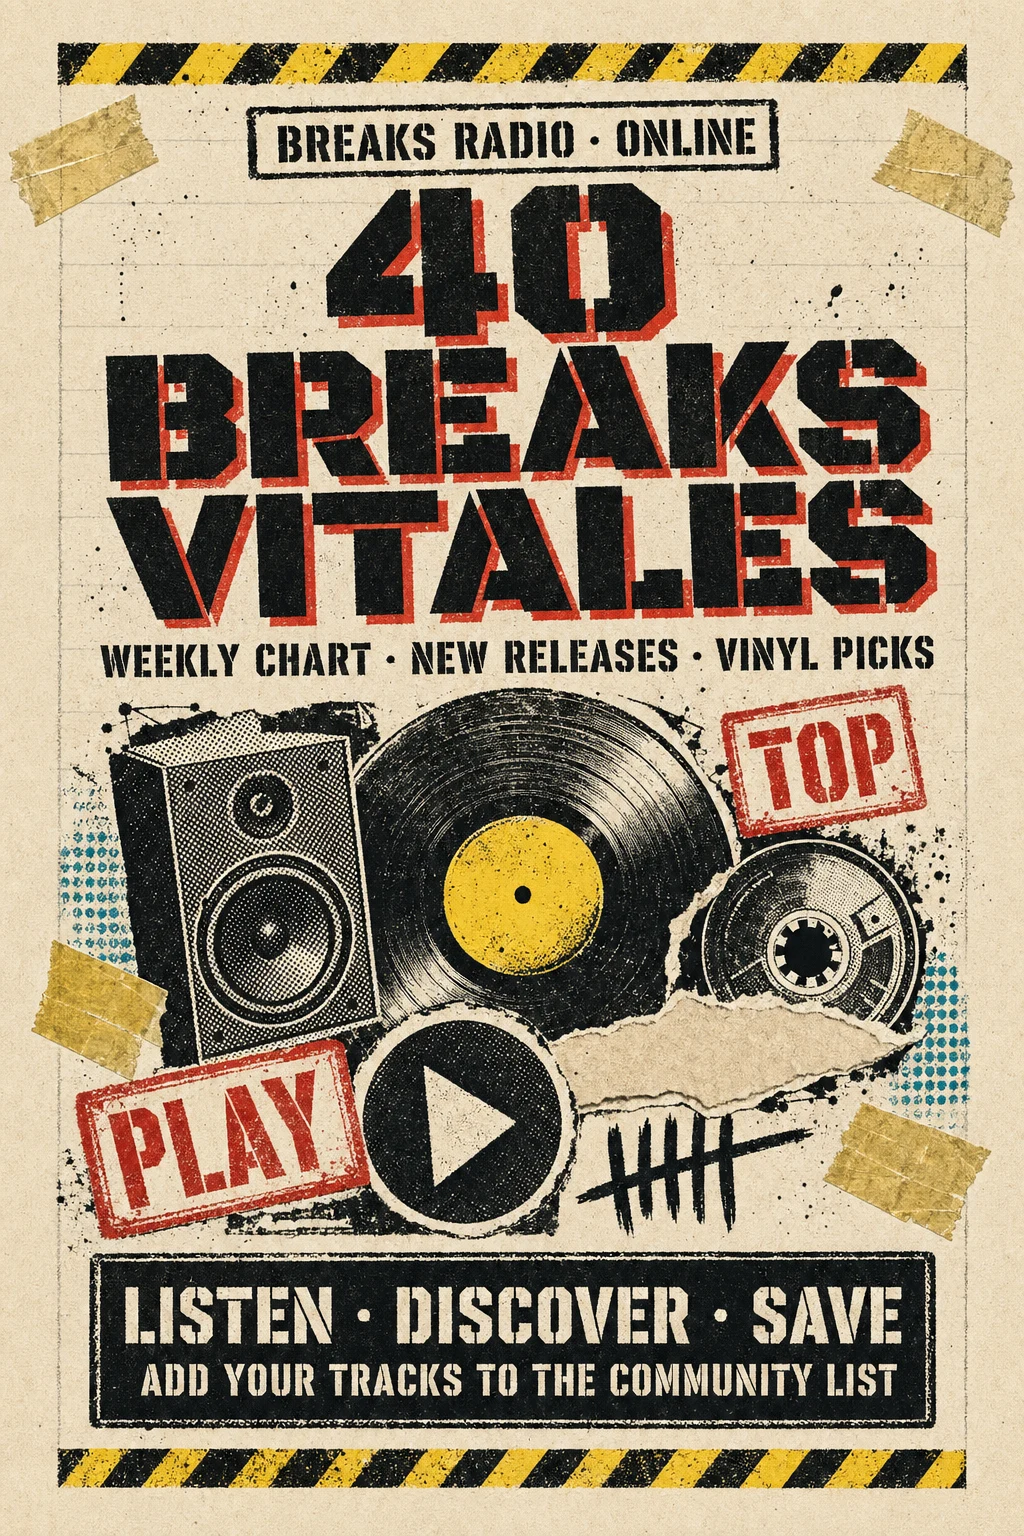
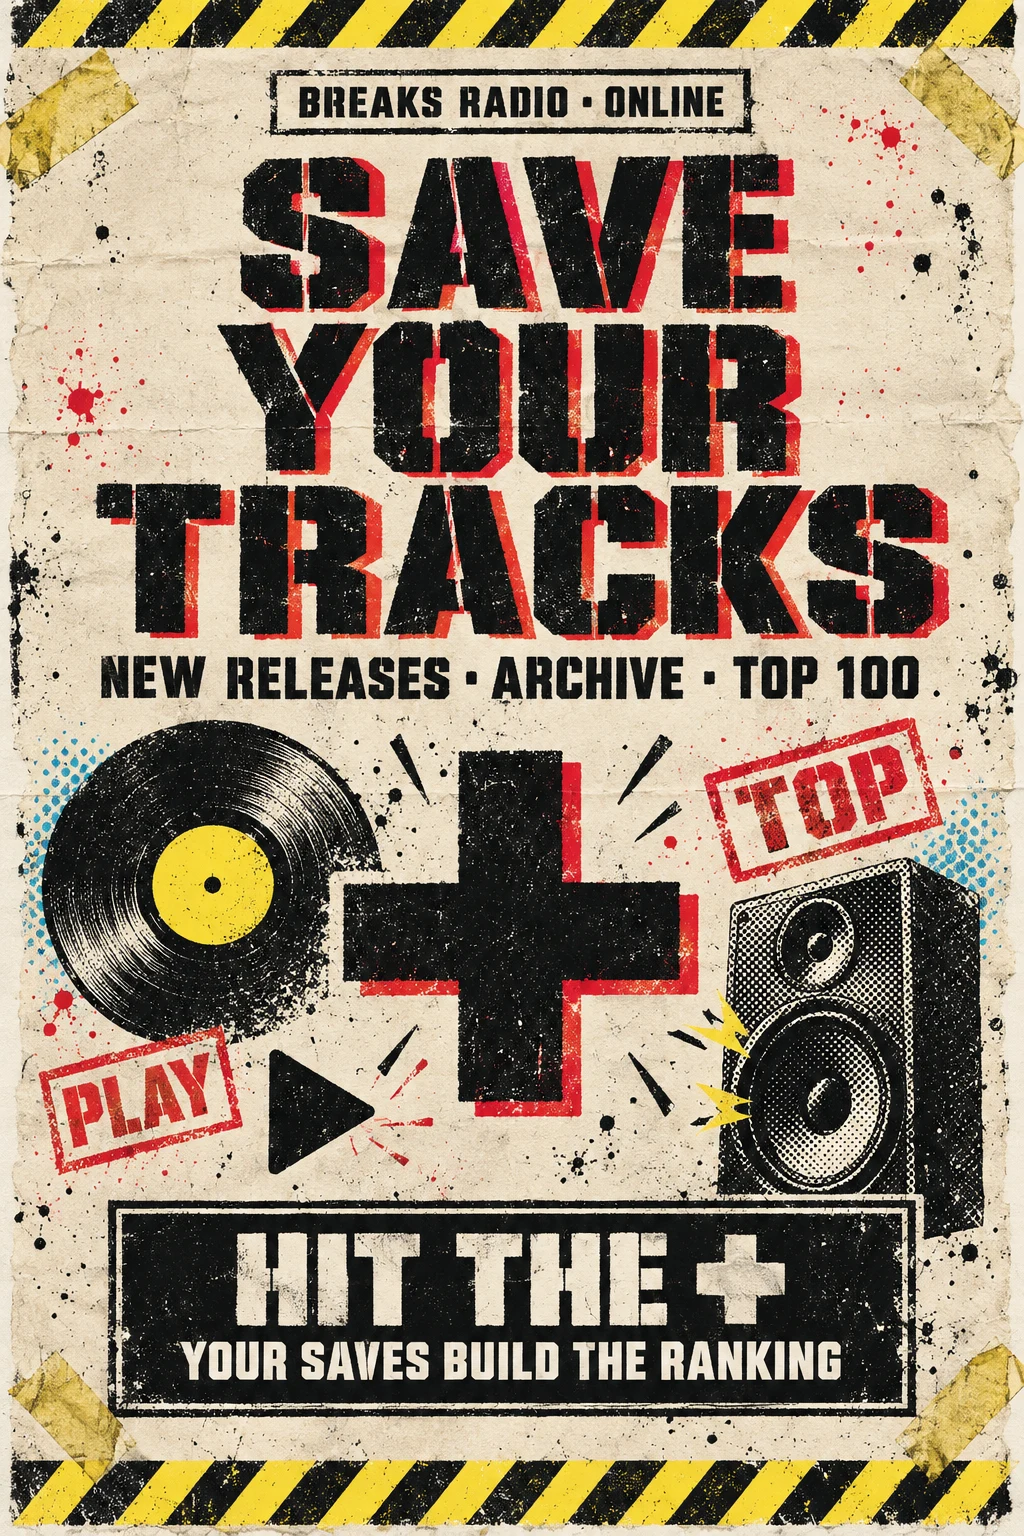
El emergente deja los 40 Breaks y pide el + de guardar temas.
Quien tiene sesión lo vuelve a ver cada 3,5 días.

diff --git a/src/components/ChartsPromoModal.tsx b/src/components/ChartsPromoModal.tsx
@@ -4,7 +4,7 @@
 // no en la primera pantalla — evita LCP/CLS en PageSpeed y no
 // interrumpe la home.
 // - No logueados: reapertura como mucho cada 24 h.
-// - Logueados: una sola vez (localStorage) y no se vuelve a mostrar.
+// - Logueados: reapertura cada 3,5 días (ventana 3–4).
 // Nunca en /[lang]/charts.
 // ============================================
 
@@ -18,6 +18,8 @@ import { useAuth } from '@/components/AuthProvider'
 
 /** Invitados: ms desde la última vez hasta volver a mostrar. */
 const PROMO_REOPEN_GUEST_MS = 24 * 60 * 60 * 1000
+/** Logueados: cada 3,5 días (punto medio de la ventana 3–4). */
+const PROMO_REOPEN_LOGGED_MS = 3.5 * 24 * 60 * 60 * 1000
 /** Pequeño respiro tras cumplir engagement antes de abrir. */
 const SHOW_DELAY_MS = 800
 /** Segundos acumulados en el sitio antes de poder mostrar (1ª visita). */
@@ -25,9 +27,8 @@ const MIN_SESSION_MS = 40 * 1000
 /** Cada cuánto comprobamos si ya toca abrir. */
 const POLL_INTERVAL_MS = 5 * 1000
 
-const LS_LAST_SHOWN = 'ob_charts_promo_last_shown_at'
-/** Logueados: si existe, el promo ya se mostró alguna vez y no se repite. */
-const LS_SEEN_LOGGED = 'ob_charts_promo_seen_logged'
+/** Clave nueva (oct 2026): el cartel ya no es «40 Breaks». Quien cerró el anterior lo vuelve a ver. */
+const LS_LAST_SHOWN = 'ob_charts_promo_saves_at'
 const SS_SESSION_START = 'ob_charts_promo_session_start'
 const SS_PAGE_VIEWS = 'ob_charts_promo_page_views'
 
@@ -63,24 +64,6 @@ function writeLastShown(ts: number) {
   if (typeof window === 'undefined') return
   try {
     window.localStorage.setItem(LS_LAST_SHOWN, String(ts))
-  } catch {
-    /* localStorage puede estar bloqueado */
-  }
-}
-
-function hasSeenLoggedIn(): boolean {
-  if (typeof window === 'undefined') return false
-  try {
-    return window.localStorage.getItem(LS_SEEN_LOGGED) === '1'
-  } catch {
-    return false
-  }
-}
-
-function markSeenLoggedIn() {
-  if (typeof window === 'undefined') return
-  try {
-    window.localStorage.setItem(LS_SEEN_LOGGED, '1')
   } catch {
     /* localStorage puede estar bloqueado */
   }
@@ -131,10 +114,11 @@ function hasEngaged(): boolean {
   return views >= 2 || elapsed >= MIN_SESSION_MS
 }
 
-function guestCooldownElapsed(): boolean {
+function cooldownElapsed(isLoggedIn: boolean): boolean {
   const last = readLastShown()
   if (last == null) return true
-  return Date.now() - last >= PROMO_REOPEN_GUEST_MS
+  const wait = isLoggedIn ? PROMO_REOPEN_LOGGED_MS : PROMO_REOPEN_GUEST_MS
+  return Date.now() - last >= wait
 }
 
 /**
@@ -152,8 +136,7 @@ function otherModalOpen(): boolean {
 function canShowNow(isLoggedIn: boolean): boolean {
   if (otherModalOpen()) return false
   if (!hasEngaged()) return false
-  if (isLoggedIn) return !hasSeenLoggedIn()
-  return guestCooldownElapsed()
+  return cooldownElapsed(isLoggedIn)
 }
 
 export default function ChartsPromoModal({ lang, dict }: Props) {
@@ -166,22 +149,20 @@ export default function ChartsPromoModal({ lang, dict }: Props) {
   const closeBtnRef = useRef<HTMLButtonElement | null>(null)
   const showTimerRef = useRef<ReturnType<typeof setTimeout> | null>(null)
 
-  const markShown = useCallback((loggedIn: boolean) => {
-    const now = Date.now()
-    writeLastShown(now)
-    if (loggedIn) markSeenLoggedIn()
+  const markShown = useCallback(() => {
+    writeLastShown(Date.now())
   }, [])
 
   const showNow = useCallback(() => {
     if (authLoading || !canShowNow(isLoggedIn)) return
     setOpen(true)
-    markShown(isLoggedIn)
+    markShown()
   }, [authLoading, isLoggedIn, markShown])
 
   const close = useCallback(() => {
     setOpen(false)
-    markShown(isLoggedIn)
-  }, [isLoggedIn, markShown])
+    markShown()
+  }, [markShown])
 
   const scheduleShowIfReady = useCallback(() => {
     if (authLoading || onChartsPage || open) return

diff --git a/README.es.md b/README.es.md
@@ -70,7 +70,7 @@ No volver a `<img>` en `CardThumbnail` ni poner `unoptimized` global.
 
 - **Audio global diferido:** **`LazyDeckAudioProvider`** en el layout; **`DeckAudioProvider`** solo se importa al **primer Play** (deck, mix, preview) o si **`sessionStorage`** (`ob_audio_active`) indica sesión activa. Hooks **`usePreviewAudioGated`** / **`useMixAudioGated`** en charts, Top 10, mixes y Mis Tracks; cabina home con controles offline hasta el primer gesto. El provider mantiene un **shell estable** alrededor de `{children}` (no remonta el árbol de la página al cargar el motor — el acordeón de `/charts` no se colapsa al primer play) y **portala** el reproductor a `<div id="ob-audio-overlays">` bajo `document.body` para que `position: fixed` siempre ancle al viewport real. Tanto **`MiniPlayerShell`** como **`BackToTop`** compensan el **`visualViewport`** en **PWA iOS** (`resize` / `scroll` / `pageshow`) para que tras bloquear/desbloquear el móvil sigan pegados al borde inferior visible.
 - **Fuentes:** subsets **latin** de Unbounded en layout + **preload** del woff2 del 900; Special Elite fuera del CSS bloqueante (`DeferredFonts`).
-- **Otros:** `DjDeck` con `dynamic()`; modal de charts solo tras engagement (2ª página o 40 s); GA/SW/BackToTop dinámicos; **`/history`** con revalidate 300; quitado `force-dynamic` del layout global.
+- **Otros:** `DjDeck` con `dynamic()`; modal de charts solo tras engagement (2ª página o 40 s). Invitados: como mucho cada 24 h. Logueados: cada 3,5 días. Nunca en `/charts`. El cartel pide el **+** (esos saves arman el Top de temas y el de artistas). GA/SW/BackToTop dinámicos; **`/history`** con revalidate 300; quitado `force-dynamic` del layout global.
 - **Caché de lecturas públicas de Supabase (Disk IO, agosto 2026):** la instancia agotó su **Disk IO Budget** (cada visita, bots incluidos, lanzaba todas las consultas del catálogo sin caché y el middleware llamaba a Auth sin timeout) y el sitio entero cayó con **504 `MIDDLEWARE_INVOCATION_TIMEOUT`**. Solución: compute **Nano → Micro** y, en la app, **`createCachedSupabase()`** (`src/lib/supabase-server.ts`) — cliente sin cookies cuyas lecturas van a la **Data Cache** de Next/Vercel con `revalidate` **300 s** — en todo el catálogo público (home, charts, artists, labels, events, mixes, scenes, blog, history, organizations, sitemap, buscador y OG de Stories). El **middleware** solo llama a Auth si hay cookies de sesión y aborta a los **2,5 s**. Los cambios en BD tardan **≤ ~5 min** en verse en la web pública (el admin ve datos vivos). **No** volver a `createServerSupabase()` en páginas públicas ni usar el cliente cacheado para datos por-usuario o escrituras. Regla: `.cursor/rules/supabase-cache-lecturas-publicas.mdc`.
 - **Lecturas paginadas (`src/lib/supabase-paginate.ts`, 28 sep 2026).** PostgREST corta en silencio a **1.000 filas** y la Data Cache **tira las entradas de más de 2 MB**. `fetchAllPages` (artistas, eventos, mixes, mapas de slugs de `/charts`) y `fetchAllPagesParallel` (el esquema de `/charts`) leen **páginas de 500** con un `ORDER BY` estable: no se pierde nada y cada página cabe en la caché. No sustituirlos por un `select` sin tope.
 - **Índices de crecimiento (migración `082_growth_indexes.sql`, aplicada).** `release_year` / `release_date` en featured, `year` en vinilo, ediciones publicadas por semana, `events.date_start`, `mixes (year, created_at)`, `saved_chart_tracks (user_id, created_at)`. Sin ellos el archivo por año y los listados por fecha recorren la tabla entera.

diff --git a/README.md b/README.md
@@ -264,7 +264,7 @@ Until then, consumers use **gated hooks** that enqueue the first action without 
 ### Other layout / route optimisations
 
 - **`DjDeck`:** `next/dynamic` on the home page with a fixed-height placeholder (deck JS not in home first chunk until visible chunk loads).
-- **`ChartsPromoModal`:** `ssr: false`; opens only after **2nd page view** in the session or **40 s** on site — not on first paint.
+- **`ChartsPromoModal`:** opens only after **2nd page view** in the session or **40 s** on site — not on first paint. Guests can see it again after **24 h**; logged-in accounts after **3.5 days**. Never on `/charts`. The poster asks people to hit **+** (those saves build the community track and artist charts).
 - **`BackToTop`**, **`GoogleAnalytics`**, **`ServiceWorkerRegistration`:** dynamic client imports in `[lang]/layout.tsx`.
 - **`/[lang]/history`:** `export const revalidate = 300` (ISR) where applicable.
 - **Removed** `export const dynamic = 'force-dynamic'` from `[lang]/layout.tsx` so static/ISR pages can cache HTML when data allows.
